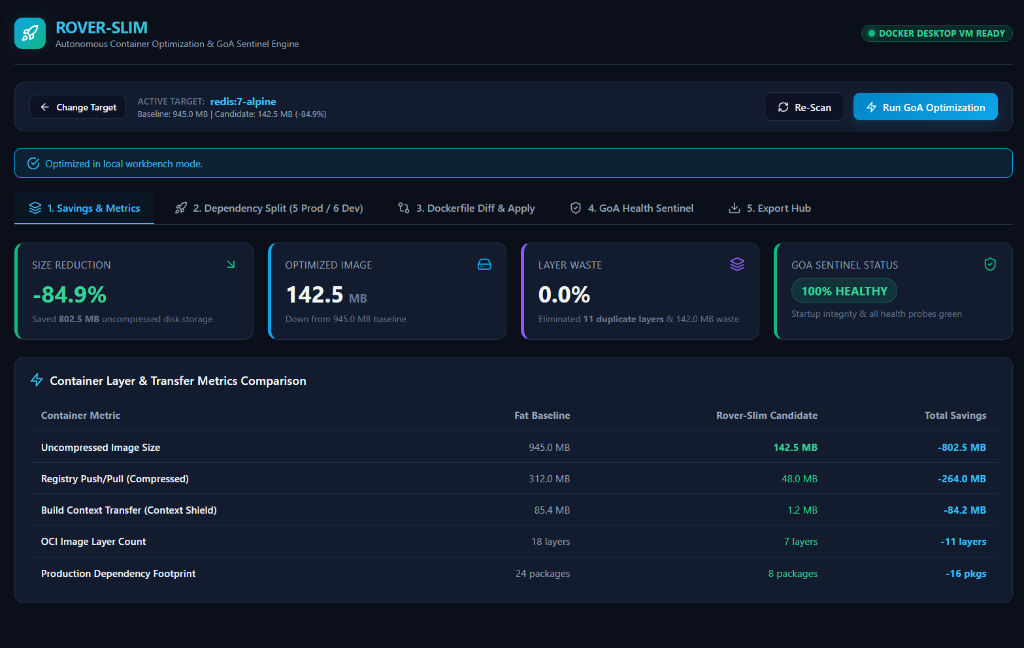
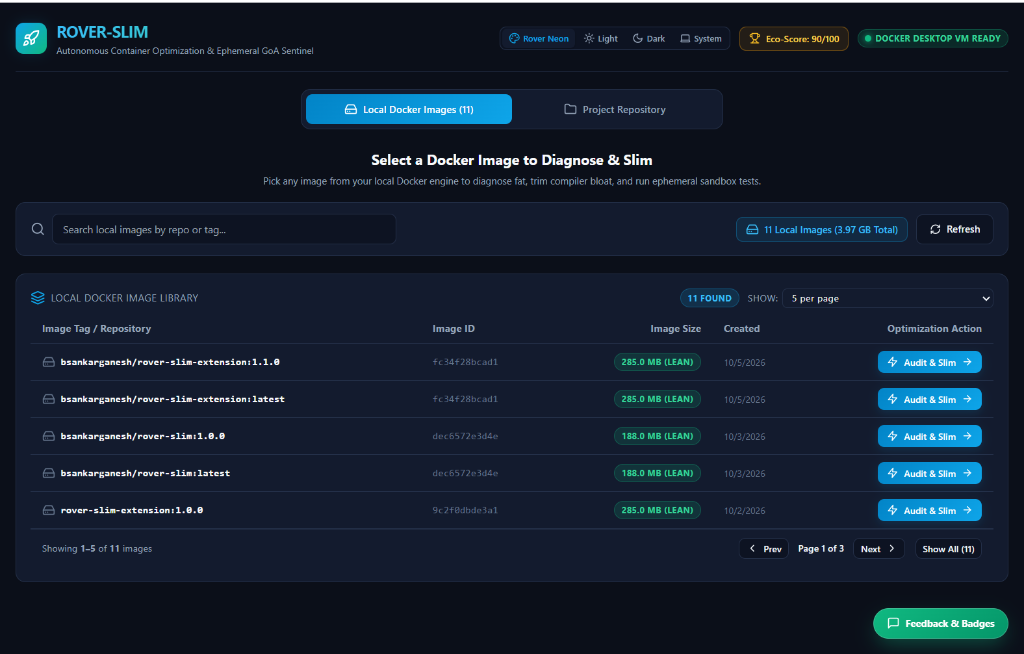
feat(release): sync v1.1.0 metadata, new dashboard screenshot, and launch playbook

diff --git a/rover_slim/server/app.py b/rover_slim/server/app.py
@@ -64,7 +64,7 @@ def create_app() -> FastAPI:
     app = FastAPI(
         title="Rover-Slim Extension API",
         description="Backend API for Docker Desktop Rover-Slim Extension",
-        version="1.0.0"
+        version="1.1.0"
     )
 
     # Enable CORS for Docker Desktop web client
@@ -80,7 +80,7 @@ def create_app() -> FastAPI:
     def health_check():
         return {
             "status": "healthy",
-            "version": "1.0.0",
+            "version": "1.1.0",
             "engine": "Rover-Slim Container Optimization Engine",
             "python_version": "3.13"
         }

diff --git a/docs/LAUNCH_PLAYBOOK.md b/docs/LAUNCH_PLAYBOOK.md
@@ -1,0 +1,149 @@
+# Rover-Slim Community Launch & Distribution Playbook
+
+This playbook provides battle-tested, pre-written launch posts and outreach messages to take **Rover-Slim** from 0 to 1,000+ installs on the Docker Desktop Extension Marketplace.
+
+Marketplace Listing: [Rover-Slim on Docker Extensions](https://open.docker.com/extensions/marketplace?extensionId=bsankarganesh/rover-slim-extension&tag=latest)  
+Repository: [https://github.com/SankarGaneshb/rover-slim](https://github.com/SankarGaneshb/rover-slim)
+
+---
+
+## 1. Reddit Launch: r/Python
+- **Target Subreddit:** `r/Python`
+- **Flair:** `Project` or `Showcase`
+- **Best Time:** Tuesday / Wednesday / Thursday between 7:00 AM – 10:00 AM EST (4:30 PM – 7:30 PM IST)
+
+### Title:
+`I built an open-source Docker extension that uses Python AST to shrink images from 1.2 GB to ~200 MB (with zero-breakage health checks)`
+
+### Body:
+```markdown
+Hey r/Python,
+
+A common issue when containerizing Python web services (FastAPI, Flask, Django) is that images quickly balloon to 1+ GB because development dependencies (`pytest`, `black`, `ruff`, `jupyter`, `locust`), build toolchains (`gcc`), and cache files accidentally end up in the final runtime image.
+
+Most guides tell you to manually write multi-stage Dockerfiles and `.dockerignore` files, but developers often worry: *"If I strip this library, will my container crash in production?"*
+
+To solve this, I built **Rover-Slim**, an open-source Docker Desktop extension and CLI tool:
+
+### 🔍 How it Works:
+1. **AST-Driven Dependency Segregation:** It parses Python Abstract Syntax Trees across your codebase to detect genuine runtime `import` statements vs dev bloat, automatically separating them into clean production requirements.
+2. **Deterministic Multi-Stage Synthesis:** Generates a production-ready, non-root (`appuser`, UID 10001) multi-stage Dockerfile with optimal layer caching.
+3. **Context Shielding:** Automatically configures `.dockerignore` to prevent build context leakage from local caches and test folders.
+4. **Green-on-Arrival (GoA) Sentinel:** Ephemerally boots a test container sandbox inside Docker Desktop to verify startup integrity and test HTTP health probes (`/health`) before letting you apply changes. If anything fails, it safely rolls back with zero disruption.
+
+### 📊 Real-World Benchmark on a Python Service:
+- **Image Size:** 1,232.7 MB ➔ **214.6 MB (-82.6%)**
+- **Compressed Registry Transfer:** 443.8 MB ➔ **68.7 MB (-84.5%)**
+- **OCI Layers:** 18 layers ➔ **8 layers**
+
+### 📦 Try it out:
+- **One-click Install in Docker Desktop:** [Open in Docker Extensions Marketplace](https://open.docker.com/extensions/marketplace?extensionId=bsankarganesh/rover-slim-extension&tag=latest)
+- **CLI Install:** `docker extension install bsankarganesh/rover-slim-extension:latest`
+- **GitHub:** [https://github.com/SankarGaneshb/rover-slim](https://github.com/SankarGaneshb/rover-slim)
+
+The project is completely free and MIT-licensed. I’d love to hear your thoughts, feedback, and any edge-case Python dependencies you run into!
+```
+
+---
+
+## 2. Reddit Launch: r/docker & r/devops
+- **Target Subreddits:** `r/docker`, `r/devops`
+- **Flair:** `Tool / Project`
+
+### Title:
+`Rover-Slim: Open-source Docker Desktop extension to automate multi-stage builds & shrink Python images by 80%`
+
+### Body:
+```markdown
+Hey everyone,
+
+Whenever teams containerize Python apps, images almost always suffer from layer bloat, dev tools packaged into production, and unoptimized multi-stage caching.
+
+I built **Rover-Slim**, an open-source Docker Desktop extension that automates the entire optimization workflow without breaking your app:
+
+- **AST Inspection:** Analyzes Python ASTs to segregate runtime imports from test/lint bloat (`pytest`, `black`, `ruff`, etc.).
+- **Multi-Stage Synthesis:** Emits hardened multi-stage Dockerfiles running as unprivileged non-root users (`appuser`, UID 10001).
+- **Green-on-Arrival Sentinel:** Runs ephemeral container health checks (`/health`) before applying changes so you never push a broken container.
+- **Supply Chain Hub:** 1-click generation of SPDX 2.3 & CycloneDX 1.5 SBOMs.
+
+It's now officially published on the Docker Extensions Marketplace:
+👉 [Install in Docker Desktop](https://open.docker.com/extensions/marketplace?extensionId=bsankarganesh/rover-slim-extension&tag=latest)  
+👉 GitHub: [https://github.com/SankarGaneshb/rover-slim](https://github.com/SankarGaneshb/rover-slim)
+
+Feedback and PRs are very welcome!
+```
+
+---
+
+## 3. Hacker News: Show HN
+- **Platform:** news.ycombinator.com
+- **Submission Title:** `Show HN: Rover-Slim – Docker Desktop extension to slim Python containers via AST`
+- **URL:** `https://github.com/SankarGaneshb/rover-slim`
+
+### First Comment (Post immediately after submitting):
+```text
+Hi HN,
+
+I built Rover-Slim to solve a frustrating problem with Python containers: images blowing up past 1 GB due to development tools (pytest, ruff, compilers) inadvertently ending up in the final build.
+
+Writing multi-stage Dockerfiles manually works, but developers usually don't know which transitive dependencies are strictly required at runtime, or they're afraid of stripping something that causes a silent runtime crash.
+
+Rover-Slim analyzes the Python AST to separate runtime imports from dev packages, synthesizes hardened 2/3-stage non-root Dockerfiles, and runs an ephemeral "Green-on-Arrival" health probe in a test container before allowing changes to be applied.
+
+It's available as an open-source Docker Desktop Extension (https://open.docker.com/extensions/marketplace?extensionId=bsankarganesh/rover-slim-extension&tag=latest) and as a CLI.
+
+Architecture and source: https://github.com/SankarGaneshb/rover-slim
+
+Looking forward to your comments and feedback!
+```
+
+---
+
+## 4. Docker Community Slack Outreach
+- **Slack Workspace:** [Docker Community Slack](https://dockr.ly/slack)
+- **Channels:** `#extensions`, `#show-and-tell`, `#python`
+
+### Message:
+```text
+Hey everyone! 👋 
+I'm excited to share that **Rover-Slim** is now live on the Docker Extensions Marketplace! 
+
+It's an open-source extension designed to optimize Python containers:
+• Analyzes Python AST code trees to isolate runtime vs dev dependencies.
+• Generates minimal, non-root multi-stage Dockerfiles.
+• Runs an ephemeral Green-on-Arrival (GoA) container sandbox to test startup integrity and HTTP health probes before applying changes.
+
+In our real-world tests, it cut container sizes from 1.2 GB down to 214 MB (-82%).
+
+You can try it directly inside Docker Desktop here:
+👉 https://open.docker.com/extensions/marketplace?extensionId=bsankarganesh/rover-slim-extension&tag=latest
+
+GitHub repo: https://github.com/SankarGaneshb/rover-slim
+
+Feedback is warmly welcomed!
+```
+
+---
+
+## 5. X (Twitter) & LinkedIn Launch Post
+- **Hashtags:** `#Docker` `#Python` `#DevOps` `#DockerDesktop` `#OpenSource` `#CloudNative`
+
+### Text:
+```text
+Tired of 1.2 GB Python Docker containers? 🐍🐳
+
+I built and launched Rover-Slim — an open-source Docker Desktop Extension that uses Python AST analysis to strip dev bloat, synthesize hardened multi-stage Dockerfiles, and verify container health before deployment.
+
+✨ Features:
+• AST-driven runtime vs dev dependency isolation
+• Non-root hardened multi-stage Dockerfile generation
+• Green-on-Arrival (GoA) ephemeral health probes
+• SPDX / CycloneDX SBOM exports
+
+Benchmark: 1,232 MB ➔ 214 MB (-82% image size, -84% compressed registry transfer)
+
+Now live on the official Docker Extensions Marketplace:
+https://open.docker.com/extensions/marketplace?extensionId=bsankarganesh/rover-slim-extension&tag=latest
+
+GitHub: https://github.com/SankarGaneshb/rover-slim
+```

diff --git a/README.md b/README.md
@@ -1,8 +1,9 @@
 # 🚀 Rover-Slim: Autonomous Container Optimization Engine & Docker Desktop Extension
 
+[![Install in Docker Desktop](https://img.shields.io/badge/Docker%20Desktop-Install%20Extension-2496ED?style=for-the-badge&logo=docker&logoColor=white)](https://open.docker.com/extensions/marketplace?extensionId=bsankarganesh/rover-slim-extension&tag=latest)
 [![CI Test Suite](https://github.com/SankarGaneshb/rover-slim/actions/workflows/ci.yml/badge.svg)](https://github.com/SankarGaneshb/rover-slim/actions)
 [![Coverage](https://img.shields.io/badge/coverage-90%25-brightgreen.svg)](https://github.com/SankarGaneshb/rover-slim)
-[![Docker Desktop Extension](https://img.shields.io/badge/Docker%20Extension-v1.0.0-blue.svg)](https://hub.docker.com/r/bsankarganesh/rover-slim-extension)
+[![Docker Extension](https://img.shields.io/badge/Docker%20Extension-v1.1.0-blue.svg)](https://open.docker.com/extensions/marketplace?extensionId=bsankarganesh/rover-slim-extension&tag=latest)
 [![Python Version](https://img.shields.io/badge/python-3.10%20%7C%203.11%20%7C%203.12%20%7C%203.13-blue.svg)](https://python.org)
 [![License: MIT](https://img.shields.io/badge/License-MIT-yellow.svg)](https://opensource.org/licenses/MIT)
 
@@ -42,9 +43,14 @@
 
 ## 🐳 Docker Desktop Extension
 
-### 1. Install via Docker Desktop CLI
+### 1. One-Click Install in Docker Desktop
+Click below to open Docker Desktop directly and install Rover-Slim:
+
+[![Install in Docker Desktop](https://img.shields.io/badge/Docker%20Desktop-Install%20Extension-2496ED?style=for-the-badge&logo=docker&logoColor=white)](https://open.docker.com/extensions/marketplace?extensionId=bsankarganesh/rover-slim-extension&tag=latest)
+
+Or install via Docker CLI:
 ```bash
-docker extension install bsankarganesh/rover-slim-extension:1.0.0
+docker extension install bsankarganesh/rover-slim-extension:latest
 ```
 
 ### 2. Launch the Extension
